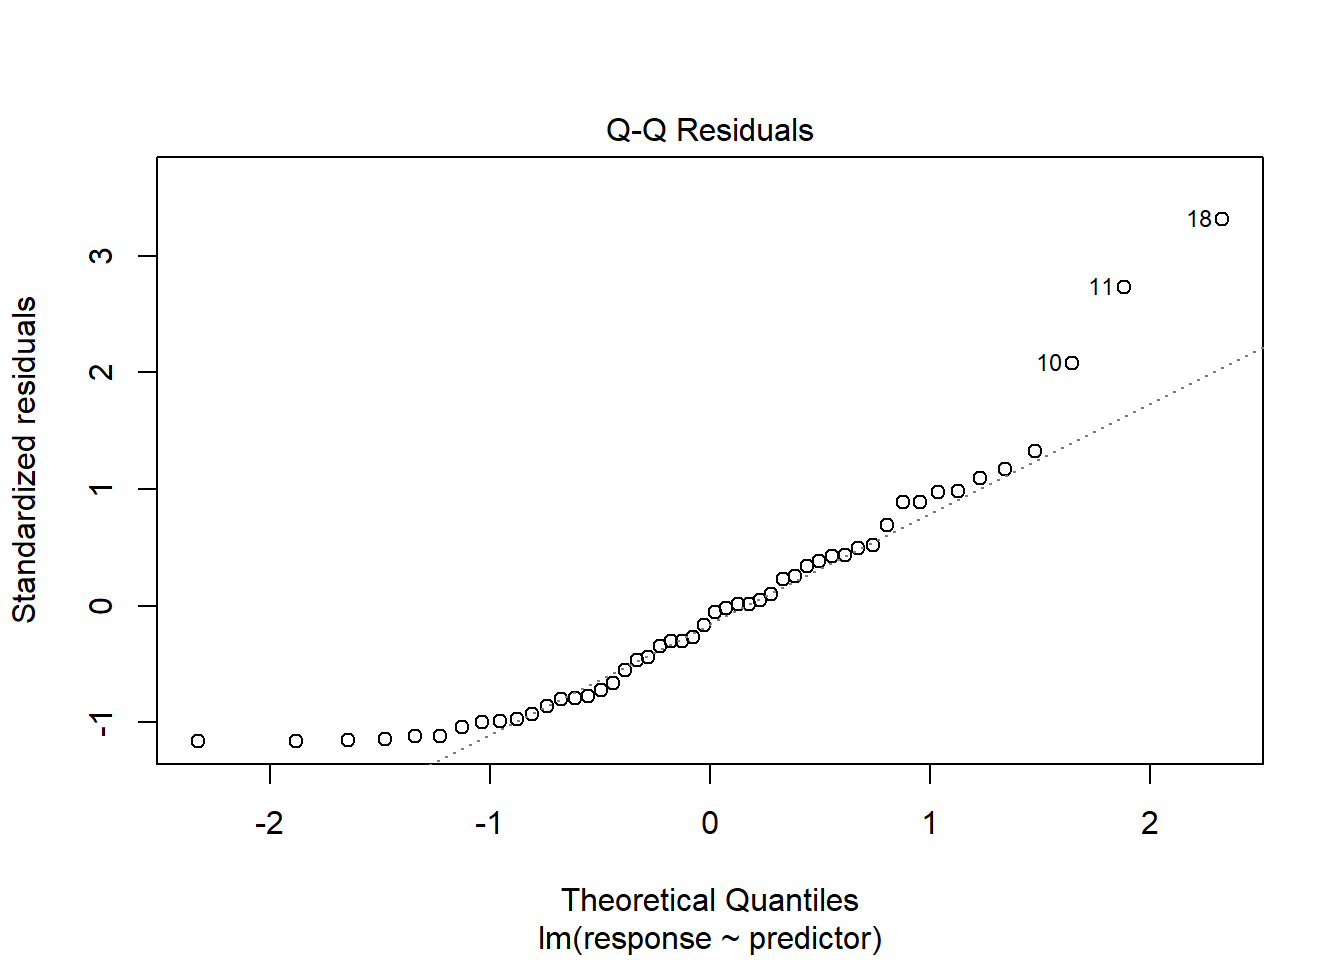
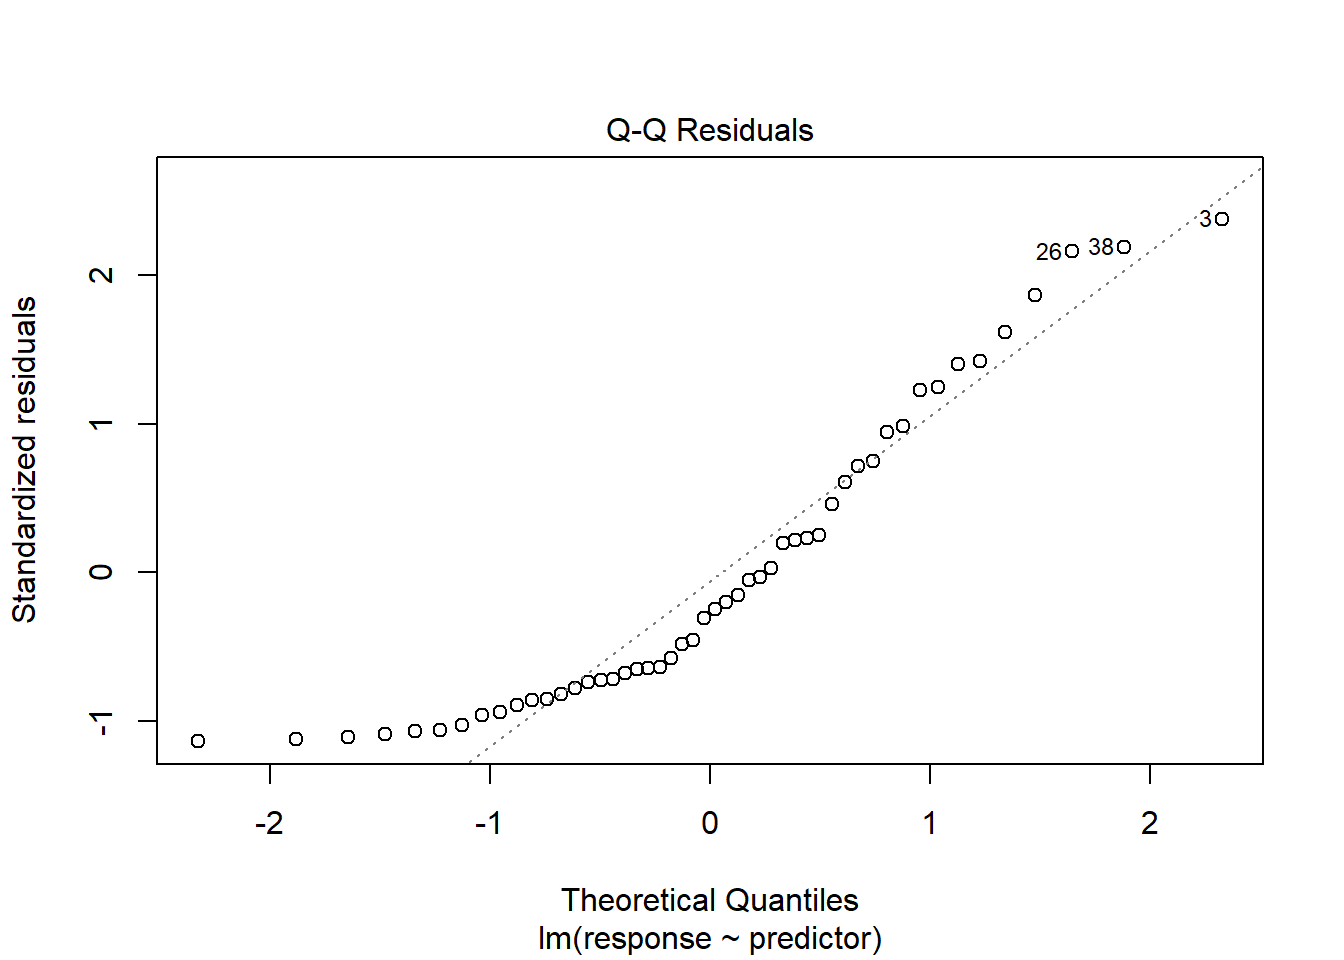
Add files via upload

diff --git a/env170/Summer2026/Week06/Lab10/CheckingAssumptions.html b/env170/Summer2026/Week06/Lab10/CheckingAssumptions.html
@@ -380,6 +380,7 @@ pre > code.sourceCode > span > a:first-child::before { text-decoration: underlin
 </header>
 
 
+<p>set.seed(456)</p>
 <p>Linear modeling, like hypothesis testing, comes with some assumptions about the condition of the underlying data. Correct use of linear regression assumes that:</p>
 <ul>
 <li><p>the observations are independent</p></li>
@@ -651,11 +652,12 @@ W = 0.96742, p-value = 0.1813</code></pre>
 <p>This plot is showing how the distribution of (standardized) residuals compares to a theoretical one we might get from “perfectly normal” data. The dotted line is where the residuals would be expected to fall if they were perfectly normal, while the points show where the residuals for our data actually fall.</p>
 <p>Here, we’ll modify the errors on the response variable to follow a <a href="https://statisticsbyjim.com/probability/beta-distribution/">beta distributon</a> with a right skew:</p>
 <div class="cell">
-<div class="code-copy-outer-scaffold"><div class="sourceCode cell-code" id="cb21"><pre class="sourceCode r code-with-copy"><code class="sourceCode r"><span id="cb21-1"><a href="#cb21-1" aria-hidden="true" tabindex="-1"></a>fakeData3<span class="ot">&lt;-</span>fakeData <span class="sc">%&gt;%</span></span>
-<span id="cb21-2"><a href="#cb21-2" aria-hidden="true" tabindex="-1"></a>  <span class="fu">mutate</span>(<span class="at">error=</span><span class="fu">rbeta</span>(<span class="fu">n</span>(),<span class="dv">1</span>,<span class="dv">10</span>)<span class="sc">-</span><span class="fl">0.25</span>) <span class="sc">%&gt;%</span></span>
-<span id="cb21-3"><a href="#cb21-3" aria-hidden="true" tabindex="-1"></a>  <span class="fu">mutate</span>(<span class="at">response=</span>predictor<span class="sc">+</span>error)</span>
-<span id="cb21-4"><a href="#cb21-4" aria-hidden="true" tabindex="-1"></a>fakeMod3<span class="ot">&lt;-</span><span class="fu">lm</span>(response<span class="sc">~</span>predictor,<span class="at">data=</span>fakeData3)</span>
-<span id="cb21-5"><a href="#cb21-5" aria-hidden="true" tabindex="-1"></a><span class="fu">plot</span>(fakeMod3,<span class="at">which=</span><span class="dv">2</span>)</span></code></pre></div><button title="Copy to Clipboard" class="code-copy-button"><i class="bi"></i></button></div>
+<div class="code-copy-outer-scaffold"><div class="sourceCode cell-code" id="cb21"><pre class="sourceCode r code-with-copy"><code class="sourceCode r"><span id="cb21-1"><a href="#cb21-1" aria-hidden="true" tabindex="-1"></a><span class="fu">set.seed</span>(<span class="dv">456</span>) <span class="co">#holding random number generator for repeatable example</span></span>
+<span id="cb21-2"><a href="#cb21-2" aria-hidden="true" tabindex="-1"></a>fakeData3<span class="ot">&lt;-</span>fakeData <span class="sc">%&gt;%</span></span>
+<span id="cb21-3"><a href="#cb21-3" aria-hidden="true" tabindex="-1"></a>  <span class="fu">mutate</span>(<span class="at">error=</span><span class="fu">rbeta</span>(<span class="fu">n</span>(),<span class="dv">1</span>,<span class="dv">10</span>)<span class="sc">-</span><span class="fl">0.25</span>) <span class="sc">%&gt;%</span></span>
+<span id="cb21-4"><a href="#cb21-4" aria-hidden="true" tabindex="-1"></a>  <span class="fu">mutate</span>(<span class="at">response=</span>predictor<span class="sc">+</span>error)</span>
+<span id="cb21-5"><a href="#cb21-5" aria-hidden="true" tabindex="-1"></a>fakeMod3<span class="ot">&lt;-</span><span class="fu">lm</span>(response<span class="sc">~</span>predictor,<span class="at">data=</span>fakeData3)</span>
+<span id="cb21-6"><a href="#cb21-6" aria-hidden="true" tabindex="-1"></a><span class="fu">plot</span>(fakeMod3,<span class="at">which=</span><span class="dv">2</span>)</span></code></pre></div><button title="Copy to Clipboard" class="code-copy-button"><i class="bi"></i></button></div>
 <div class="cell-output-display">
 <div>
 <figure class="figure">
@@ -669,10 +671,10 @@ W = 0.96742, p-value = 0.1813</code></pre>
     Shapiro-Wilk normality test
 
 data:  fakeMod3$residuals
-W = 0.89949, p-value = 0.0004623</code></pre>
+W = 0.89096, p-value = 0.0002449</code></pre>
 </div>
 </div>
-<p>One of the things you’ll notice (you may have to look closely) is that the center of the distribution passes below the dotted line. This suggests that the residuals are not adhering to the normal distribution. Being able to visualize the data this way gives us a sense not only of whether the residuals are normally distributed, but where the deviation takes place. Oftentimes, these plots will start to deviate around the margins of the distribution as values become fewer, so it’s not surprising to see some outlying points at these ends. However, as long as the majority of points fall close to the line, particularly around the center, we’re in good shape.</p>
+<p>One of the things you’ll notice (you may have to look closely) is that the center of the distribution passes below the dotted line. This, along with the number of deviations at the margins, suggests that the residuals are not adhering to the normal distribution. Being able to visualize the data this way gives us a sense not only of whether the residuals are normally distributed, but where the deviation takes place. Oftentimes, these plots will start to deviate around the margins of the distribution as values become fewer, so it’s not surprising to see some outlying points at these ends. However, as long as the majority of points fall close to the line, particularly around the center, we’re in good shape.</p>
 <p>We can run the same thing with our tree DBH model:</p>
 <div class="cell">
 <div class="code-copy-outer-scaffold"><div class="sourceCode cell-code" id="cb24"><pre class="sourceCode r code-with-copy"><code class="sourceCode r"><span id="cb24-1"><a href="#cb24-1" aria-hidden="true" tabindex="-1"></a><span class="fu">plot</span>(treeMod_dbh,<span class="at">which=</span><span class="dv">2</span>)</span></code></pre></div><button title="Copy to Clipboard" class="code-copy-button"><i class="bi"></i></button></div>